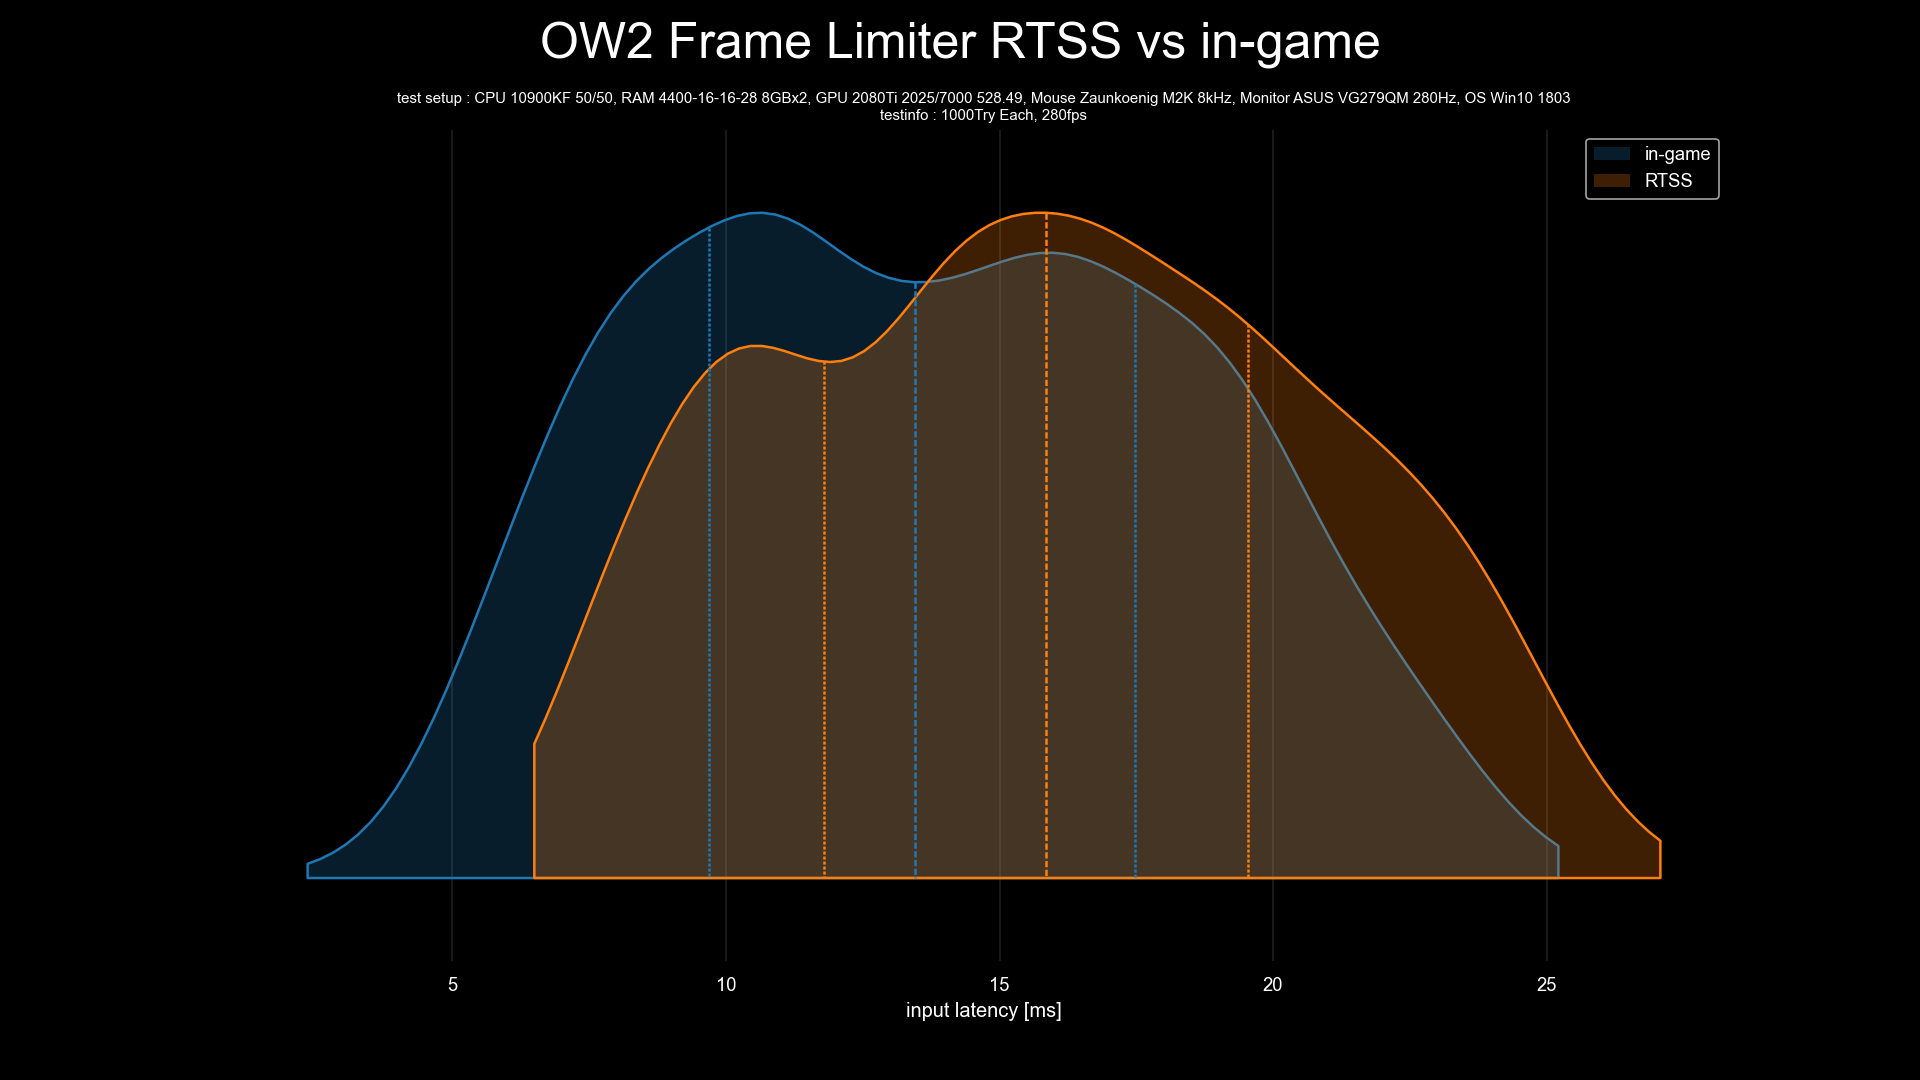
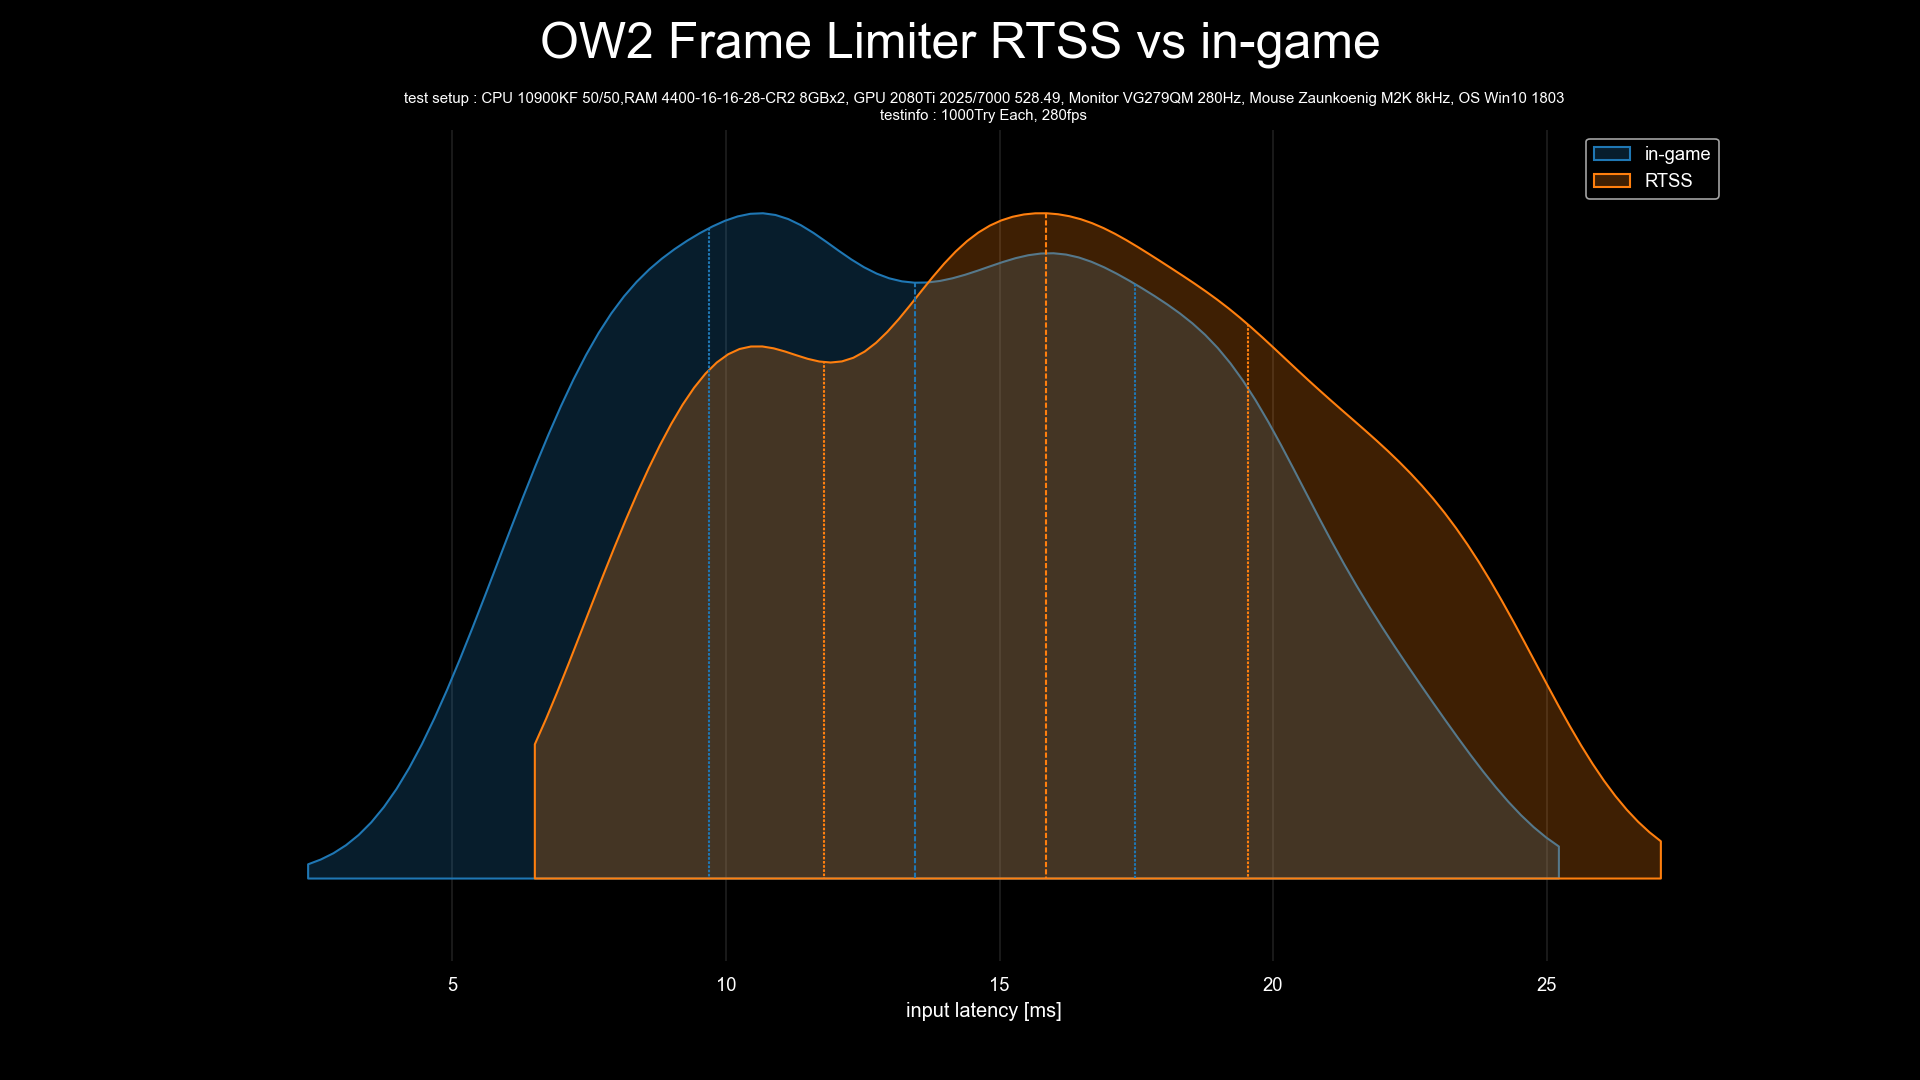
Minor visual improvements to the legend and addition of a file count limit
I've simplified the code for creating plots. As a result, the legend colors are now easier to identify.
Additionally, I've added a limit on the number of files to prevent overlapping plot colors.

diff --git a/violinplot.py b/violinplot.py
@@ -22,6 +22,9 @@ fle = list(filedialog.askopenfilenames(filetypes=[('csv file','.csv')]))
 if len(fle) == 0:
     messagebox.showerror('Error', 'CSV file not selected, exit.')
     exit()
+elif len(fle) > 13:
+    messagebox.showerror('Error', 'too many CSV files please use less than 14, exit.')
+    exit()
 
 # aggregate all csv data
 for i in range(len(fle)):
@@ -31,7 +34,6 @@ for i in range(len(fle)):
     globals()[var_name] = pd.read_csv(fle[i],names=['Latency'])
     exec("{}['filename'] = '{}'".format(var_name,os.path.splitext(os.path.basename(fle[i]))[0]))
     exec("data_list.append({})".format(var_name))
-mergedataset = pd.concat(data_list)
 
 # user input for GraphTitle
 GraphTitle = tkinter.simpledialog.askstring("Enter Graph Title", "Enter Graph Title")
@@ -54,8 +56,8 @@ fig = plt.figure(figsize=(16,9))
 ax = fig.add_subplot(111)
 
 # create plot
-plot = sb.violinplot(data=mergedataset, y='Latency', hue='filename', inner='quart', cut=0, fill=False, legend=False)
-plot = sb.violinplot(data=mergedataset, y='Latency', hue='filename', inner='quart', cut=0, saturation=1, alpha=0.249, edgecolor='None')
+for i in range(len(fle)):
+    plot = sb.violinplot(data=data_list[i], y='Latency', x='filename', label=filename_list[i], inner='quart', cut=0, saturation=1, alpha=None, edgecolor=sb.color_palette("tab10")[i]+(1,), dodge=False, split=False, color=sb.color_palette("tab10")[i]+(0.249,))
 plot.legend_.set_title('')
 for text in plot.legend_.get_texts():
     text.set_color(labelcolor)
@@ -64,6 +66,7 @@ for text in plot.legend_.get_texts():
 if GraphTitle!="":
     fig.suptitle(GraphTitle,y=0.98,size=30,color=labelcolor)
 plt.yticks(color=labelcolor)
+plt.xticks(color=backcolor)
 if TestSetup != "" and TestInfo != "":
     ax.set_title("test setup : "+TestSetup+"\ntestinfo : "+TestInfo,color=labelcolor,size=9)
 elif TestSetup == "" and TestInfo != "":

diff --git a/violinplot_KDElike.py b/violinplot_KDElike.py
@@ -22,6 +22,9 @@ fle = list(filedialog.askopenfilenames(filetypes=[('csv file','.csv')]))
 if len(fle) == 0:
     messagebox.showerror('Error', 'CSV file not selected, exit.')
     exit()
+elif len(fle) > 13:
+    messagebox.showerror('Error', 'too many CSV files please use less than 14, exit.')
+    exit()
 
 # aggregate all csv data
 for i in range(len(fle)):
@@ -31,7 +34,6 @@ for i in range(len(fle)):
     globals()[var_name] = pd.read_csv(fle[i],names=['Latency'])
     exec("{}['filename'] = '{}'".format(var_name,os.path.splitext(os.path.basename(fle[i]))[0]))
     exec("data_list.append({})".format(var_name))
-mergedataset = pd.concat(data_list)
 
 # user input for GraphTitle
 GraphTitle = tkinter.simpledialog.askstring("Enter Graph Title", "Enter Graph Title")
@@ -55,8 +57,7 @@ ax = fig.add_subplot(111)
 
 # create plot
 for i in range(len(fle)):
-    sb.violinplot(data=data_list[i], x='Latency', inner='quart', cut=0, fill=False, legend=False, dodge=False, split=True, color=sb.color_palette("tab10")[i])
-    plot = sb.violinplot(data=data_list[i], x='Latency', label=filename_list[i], inner='quart', cut=0, saturation=1, alpha=0.249, edgecolor='None', dodge=False, split=True, color=sb.color_palette("tab10")[i])
+    plot = sb.violinplot(data=data_list[i], x='Latency', label=filename_list[i], inner='quart', cut=0, saturation=1, alpha=None, edgecolor=sb.color_palette("tab10")[i]+(1,), dodge=False, split=True, color=sb.color_palette("tab10")[i]+(0.249,))
 plot.legend_.set_title('')
 for text in plot.legend_.get_texts():
     text.set_color(labelcolor)
